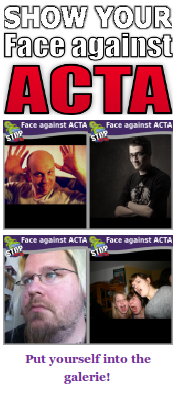
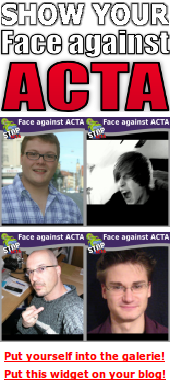
Adding some CSS & a link to the Widget
git-svn-id: https://plugins.svn.wordpress.org/faces-against-acta/trunk@288428 b8457f37-d9ea-0310-8a92-e5e31aec5664

diff --git a/facesagainstacta.php b/facesagainstacta.php
@@ -20,21 +20,29 @@ function widget_faa_init()
 
 	function widget_faa($args)
 	{
-        echo "<center>";
-        echo "<table border=\"0\" cellpadding=\"0\" cellspacing=\"0\" width=\"170\"><tr><td colspan=\"2\">";
-        echo "<a href=\"http://faces-against-acta.net/\"><img src=\"/wp-content/plugins/faces-against-acta/header.png\" border=\"0\" width=\"170\" height=\"110\"></a>";
-        echo "</td></tr><tr><td>";
-        echo "<a href=\"http://faces-against-acta.net/\"><img src=\"http://img.faces-against-acta.net/random_small/?1\" border=\"0\" width=\"85\" height=\"110\"></a>";
-        echo "</td><td>";        
-        echo "<a href=\"http://faces-against-acta.net/\"><img src=\"http://img.faces-against-acta.net/random_small/?2\" border=\"0\" width=\"85\" height=\"110\"></a>";
+	
+          echo "<style type=\"text/css\">";
+          echo "#faa-table {border-collapse:collapse !important; border-spacing:0px !important; border-width:0px !important;;}";
+          echo "#faa-table td, #faa-table tr, #faa-table a, #faa-table img {padding:0px !important; margin:0px !important; border-width:0px !important;}";      
+          echo ".faa-link a {font-size:10px !important;font-family:Verdana,sans-serif !important;color:red !important;text-decoration:underline !important}";        
+          echo "</style>";
+        
+          echo "<center>";
+          echo "<table id=\"faa-table\" style=\"border-width:0px;\" border=\"0\" cellpadding=\"0\" cellspacing=\"0\" width=\"170\"><tr><td colspan=\"2\">";
+          echo "<a href=\"http://faces-against-acta.net/\"><img src=\"/wp-content/plugins/faces-against-acta/header.png\" border=\"0\" width=\"170\" height=\"110\"></a>";
+          echo "</td></tr><tr><td>";
+          echo "<a href=\"http://faces-against-acta.net/\"><img src=\"http://img.faces-against-acta.net/random_small/?1\" border=\"0\" width=\"85\" height=\"110\"></a>";
+          echo "</td><td>";        
+          echo "<a href=\"http://faces-against-acta.net/\"><img src=\"http://img.faces-against-acta.net/random_small/?2\" border=\"0\" width=\"85\" height=\"110\"></a>";
        
-        echo "</td></tr><tr><td>";
-        echo "<a href=\"http://faces-against-acta.net/\"><img src=\"http://img.faces-against-acta.net/random_small/?3\" border=\"0\" width=\"85\" height=\"110\"></a>";
-        echo "</td><td>";        
-        echo "<a href=\"http://faces-against-acta.net/\"><img src=\"http://img.faces-against-acta.net/random_small/?4\" border=\"0\" width=\"85\" height=\"110\"></a>";
-        echo "</td></tr>";
-        echo "<tr><td colspan=\"2\"><center><b><a href=\"http://faces-against-acta.net/\">Put yourself into the galerie!</a></b></center></td></tr>";
-        echo "</table></center>";
+          echo "</td></tr><tr><td>";
+          echo "<a href=\"http://faces-against-acta.net/\"><img src=\"http://img.faces-against-acta.net/random_small/?3\" border=\"0\" width=\"85\" height=\"110\"></a>";
+          echo "</td><td>";        
+          echo "<a href=\"http://faces-against-acta.net/\"><img src=\"http://img.faces-against-acta.net/random_small/?4\" border=\"0\" width=\"85\" height=\"110\"></a>";
+          echo "</td></tr>";
+          echo "<tr class=\"faa-link\"><td colspan=\"2\"><center><b><a href=\"http://faces-against-acta.net/\">Put yourself into the galerie!</a></b></center></td></tr>";
+          echo "<tr class=\"faa-link\"><td colspan=\"2\"><center><b><a href=\"http://wordpress.org/extend/plugins/faces-against-acta/\">Put this widget on your blog!</a></b></center></td></tr>";
+          echo "</table></center>";
 	}
 	
 	register_sidebar_widget('Faces against ACTA', 'widget_faa');
